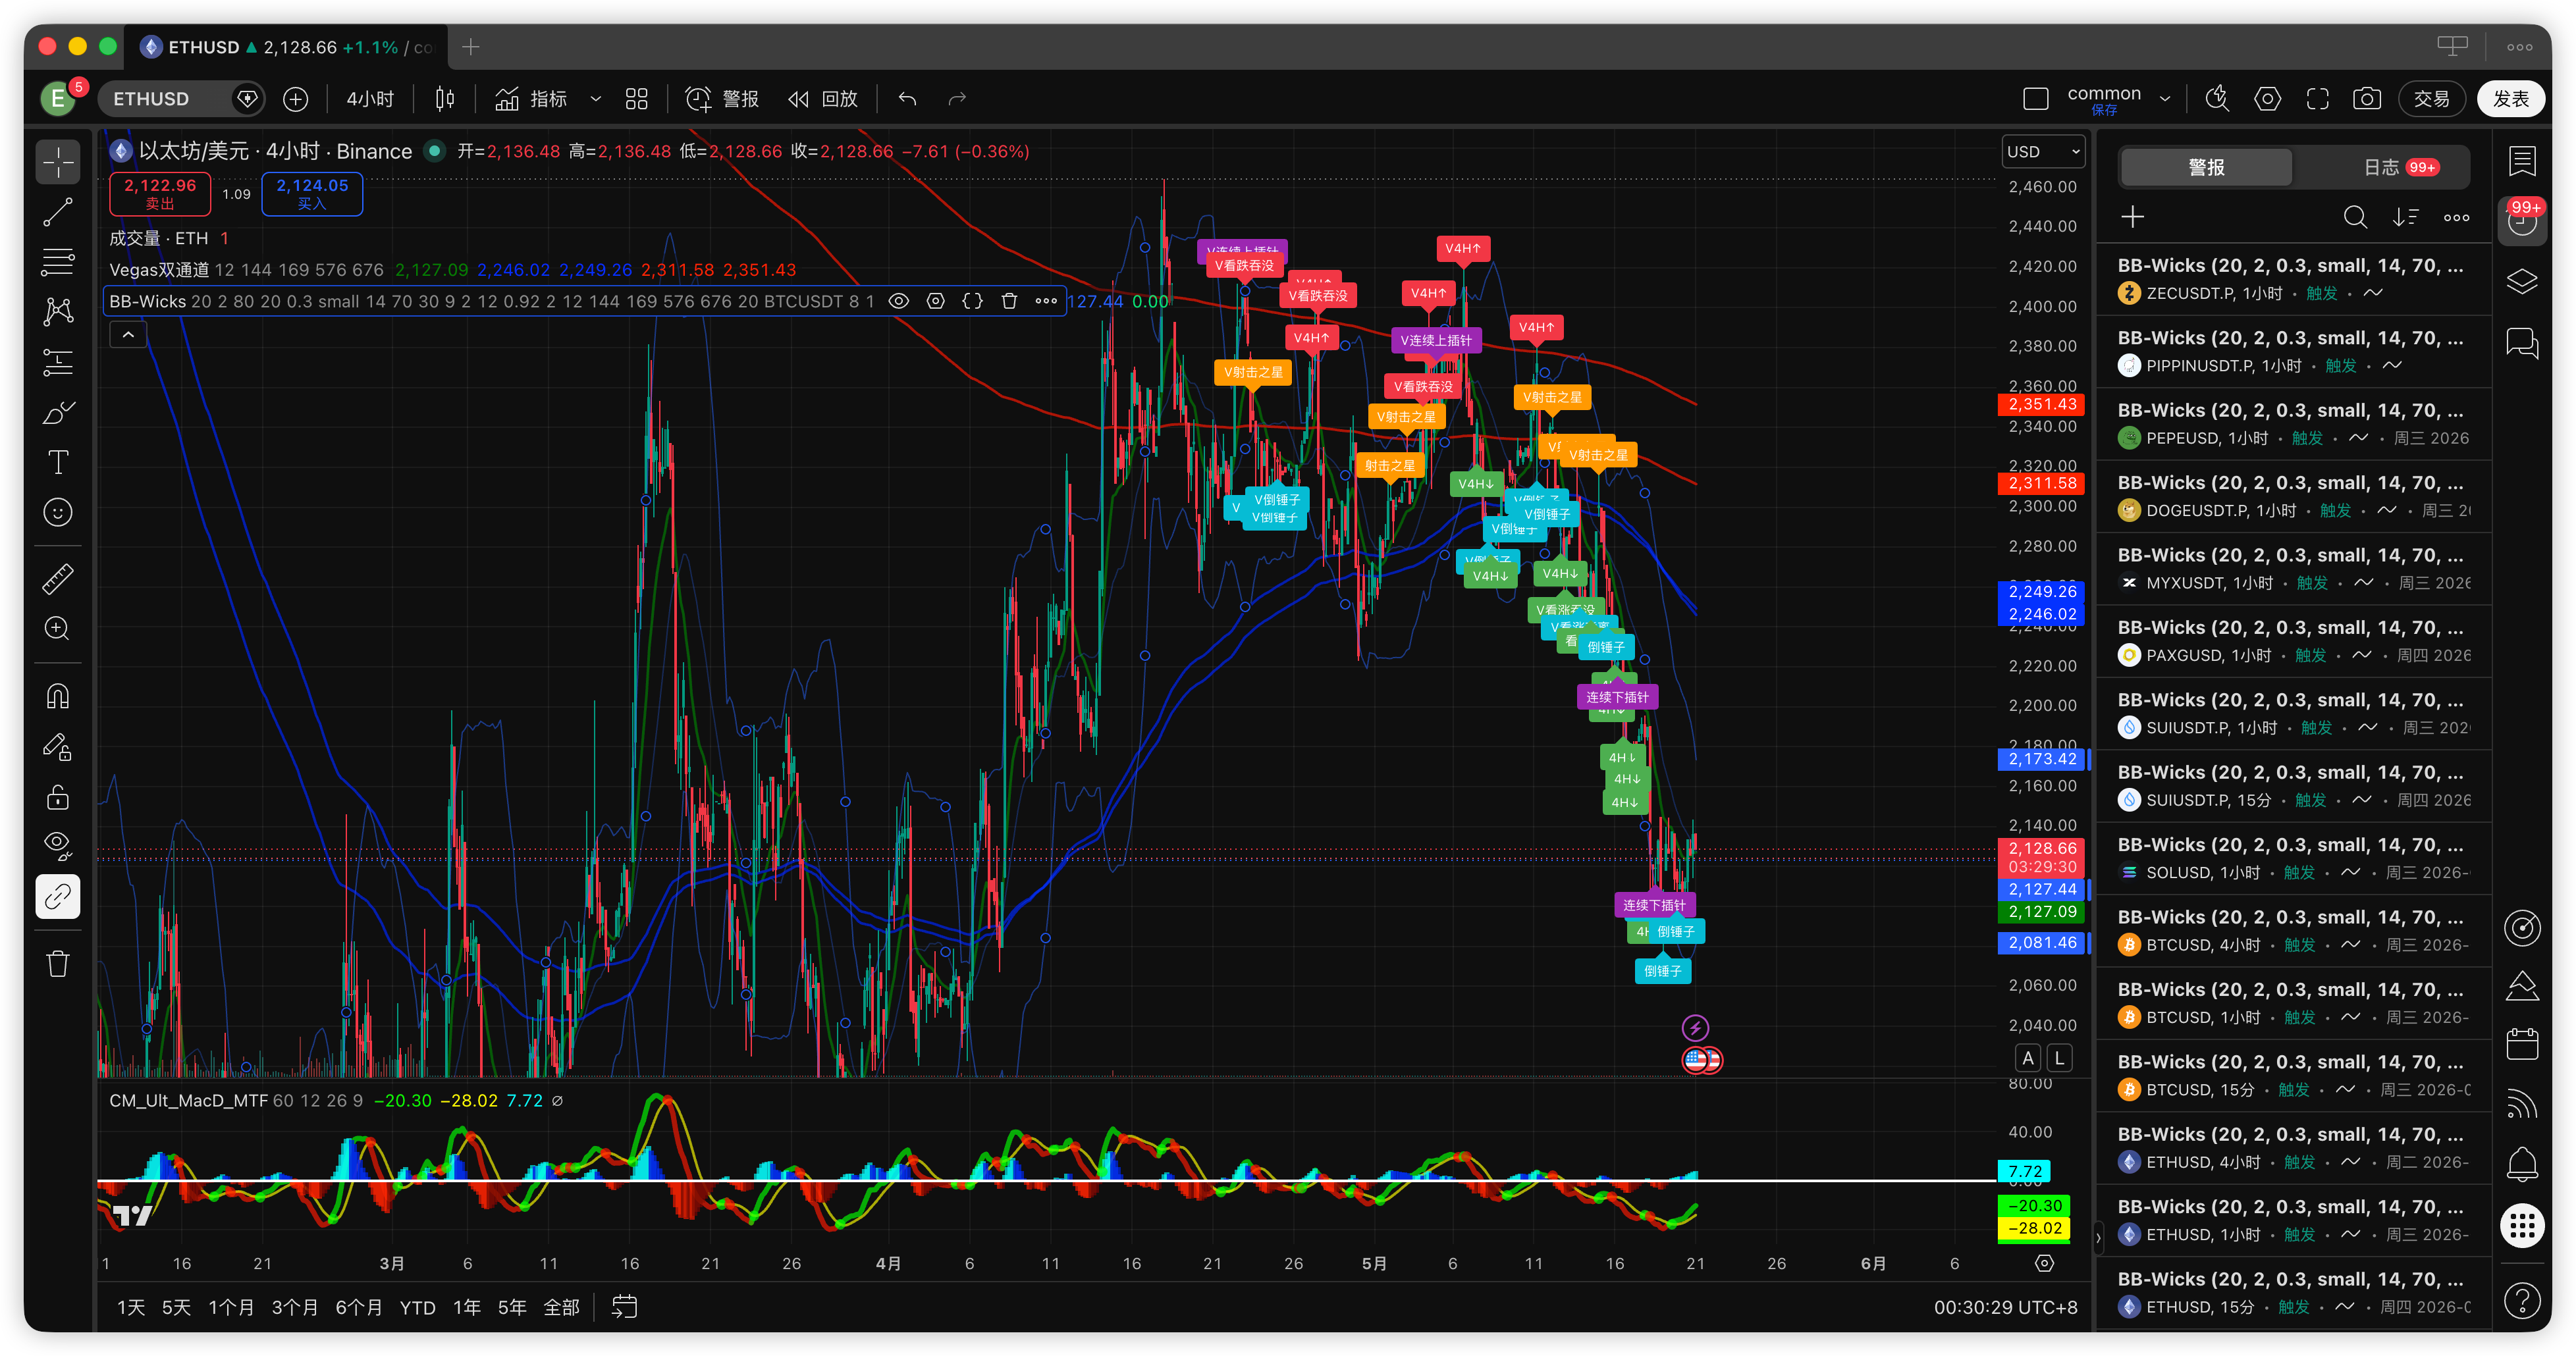
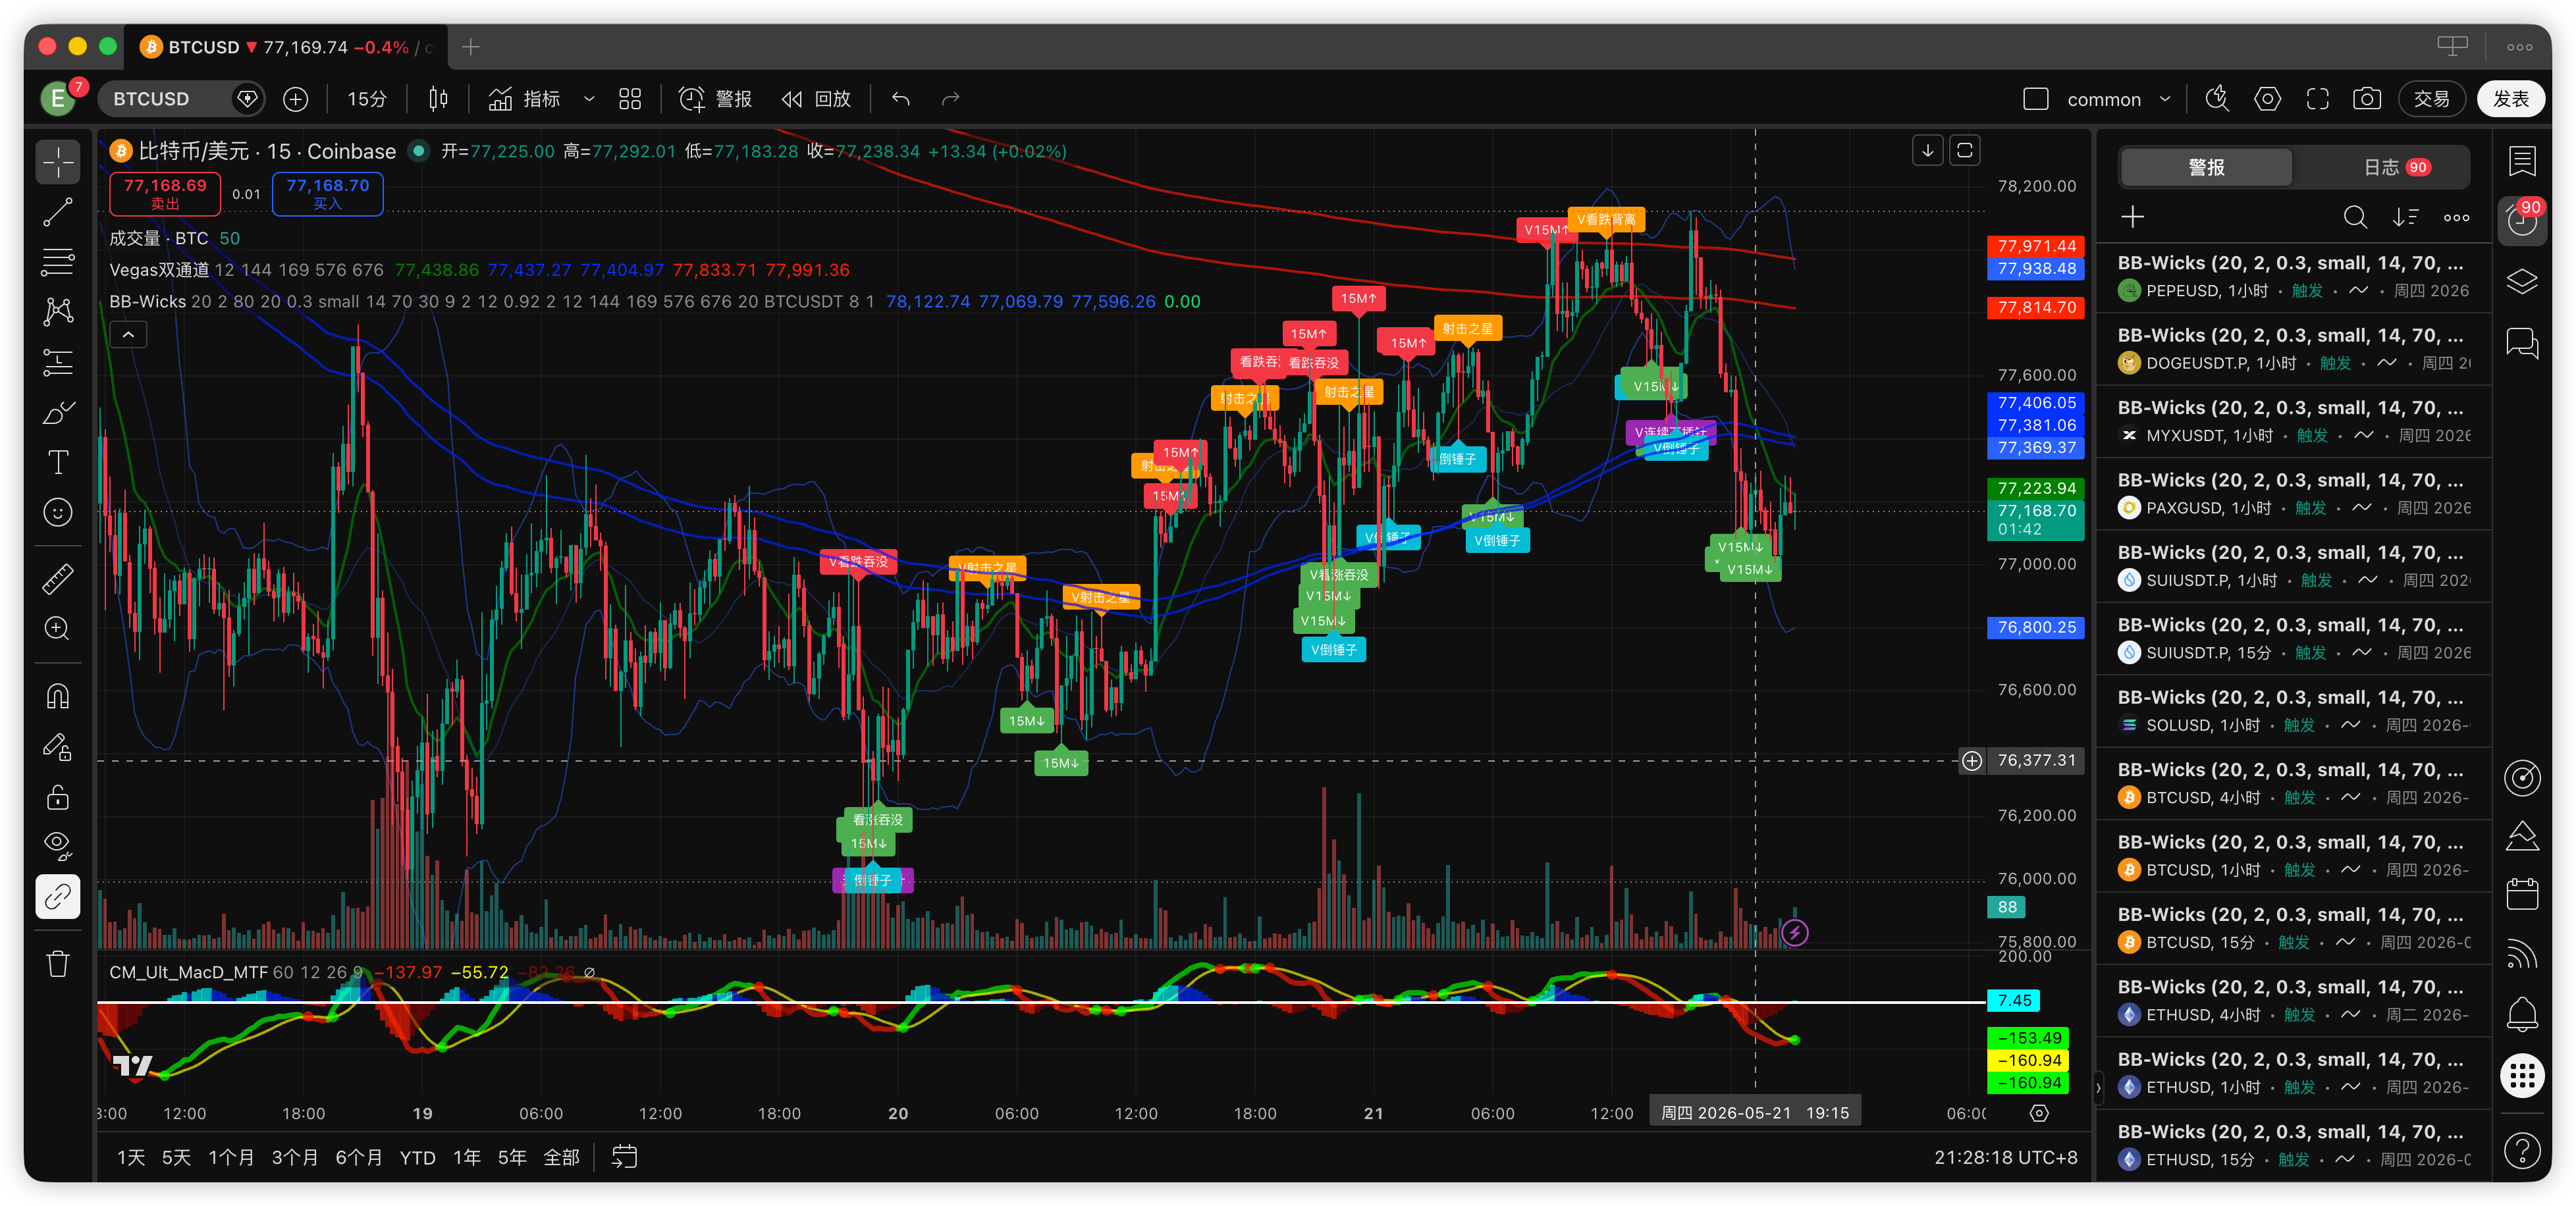
chore: auto commit

diff --git a/manager/local_ollama.py b/manager/local_ollama.py
@@ -124,6 +124,8 @@ def load_ollama_settings() -> dict[str, Any]:
         "allowed_image_path_roots": [
             "/Users/maotouying/Downloads",
             "/tmp",
+            "/Users/maotouying/frontend/code/1.operations/auto-deal-eth/screenshots",
+            "/Volumes/RamDisk/app_screenshots",
         ],
     }
     if not path.exists():